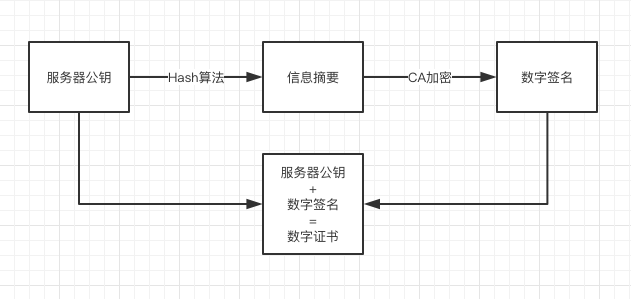
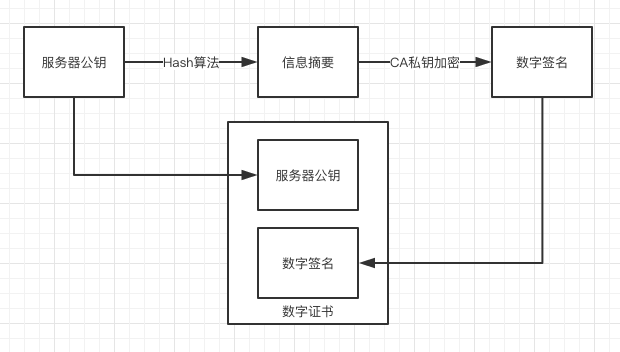
perf: ⚡ 优化 https 文章

diff --git a/docs/blog/osi-https.md b/docs/blog/osi-https.md
@@ -2,58 +2,122 @@
 
 HTTPS 是以安全为目标的 HTTP 通道，简单讲是 HTTP 的安全版。
 
-## 流程分析
+- HTTPS 协议定义
+- HTTPS 流程分析
+- TLS 握手优化
+
+## HTTPS 协议定义
+
+HTTPS 全称为超文本传输安全协议（HyperText Transfer Protocol Secure；常称为 HTTP over TLS、HTTP over SSL 或 HTTP Secure）是一种通过计算机网络进行安全通信的传输协议。HTTPS 经由 HTTP 进行通信，但利用 SSL/TLS 来加密数据包。HTTPS 开发的主要目的，是提供对网站服务器的身份认证，保护交换数据的隐私与完整性。这个协议由网景公司（Netscape）在 1994 年首次提出，随后扩展到互联网上。
+
+可以看出，HTTPS 只是在 HTTP 的基础上，增加了 SSL/TSL 安全层，主要为了实现以下目的：
+
+- 所有信息都是加密传播，第三方无法窃听。
+- 具有校验机制，一旦被篡改，通信双方会立刻发现。
+- 配备身份证书，防止身份被冒充。
+
+## HTTPS 流程分析
 
 下图是一次 HTTPS 请求的流程图，我们一起来分析一下。
 
 ![https流程图](osi-https.png)
 
-- 1、客户端请求 HTTPS 链接，并发送自己支持的**一套加密规则**和**一个随机数**（Client random）给服务器。
-- 2、服务器需要安装好证书（其实就是一对公钥和私钥）。
-- 3、服务端确认双方使用的加密方法，并返回一组加密组件和通过 hash 算法签名的**数字证书**，和一个服务器端生成的**随机数（Server random）**。
+- 1、客户端发起请求，同时将客户端支持的**TLS 协议版本号**、**加密规则**、**一个随机数（Client random）**，发送给服务器。
+- 2、服务器上有安装好的认证证书（将服务器的私钥，通过权威机构 CA 认证后，生成的证书公钥和私钥）。
+- 3、服务端确认双方使用的加密方法，然后使用 hash 算法签名证书，然后将数字证书、一个服务器端生成的**随机数（Server random）**，发送给客户端。
 - 4、客户端验证证书。
   - 使用 hash 检查证书是否被篡改。
-  - 验证失败，弹出提示，证书存在问题，拒绝请求。
-  - 验证成功，生成新**随机数（Premaster secret）**。
+  - 验证失败，拒绝请求。
+  - 验证成功，生成**新随机数（Premaster secret）**。
 - 5、使用证书公钥将随机值加密后传给服务端。
 - 6、服务端用私钥解密消息内容，获得**随机数（Premaster secret）**。
 - 7、服务端根据约定的加密方法，使用前面的三个随机数（Client random，Server random，Premaster secret）生成**对话密钥（session key）**，并使用**对话密钥（session key）**加密传输内容，发送给客户端。
-- 8、客户端使用同样的算法获取**对话密钥（session key）**，并使用**对话密钥（session key）**解密传输内容。
-- 9、之后，客户端和服务器端通过**对话密钥（session key）** 作为对称加密 key，相互传输数据。
+- 8、客户端使用同样的算法生成**对话密钥（session key）**，并使用**对话密钥（session key）**对获取到的内容进行解密。
+- 9、秘钥协商结束，客户端和服务器端通过**对话密钥（session key）** 作为对称加密 key，相互传输数据。
 
-## Hash 检测
+可以看到，HTTPS 在请求时，主要分为两个部分：
 
-在秘钥协商的过程中，结合流程图 步骤 2~3 ，如果证书在传递过程中被篡改了怎么办？这就需要检验证书的合法性，一般使用数字签名来实现。
+- 秘钥协商，使用非对称加密，生成秘钥。
+- 对称加密，使用秘钥对每次请求进行加密。
+
+:::tip 为什么需要 3 个随机数，而不是只用 Premaster secret 生成会话密钥？
+
+因为每个主机并不是都能产生完全的随机数的。有很多产生的只是弱随机数而已，比如范围小，可能被猜测。如果该随机数被破解，那么之前一系列握手都是没什么用的。因此用三个随机数一起生成密钥能使得伪随机数更接近随机。
+:::
+
+### 证书合法性验证
+
+服务器端发送公钥的时候，中间人截取了的公钥，并把自己的公钥发给了客户端，客户端发的消息就用中间人的公钥加了密，中间人不就可以解密看到消息了吗？
+
+是的，这个时候就需要发挥证书的用处了，想要部署 HTTPS 服务，必须在 CA 认证机构中进行认证获得认证证书。客户端可以根据证书判断出具体请求到的服务器是否是中间人。
+
+问题又来了，如果中间人并不直接替换证书，而是修改了其中的一部分内容，应该怎么应对呢？
+
+我们可以使用 hash 算法，对证书进行签名，在客户端采用同样的 hash 算法进行验证，一旦发现不一致，就取消该请求。具体操作如下：
+
+服务器端生成数字证书：
 
 ![https流程图](osi-https-hash1.png)
 
-- 将服务器公钥进行 Hash 加密。
-- 将加密后的结果再通过 CA（认证中心）私钥加密，生成数字签名。
-- 将服务器公钥和数字签名一并发给客户端。
+- 将服务器公钥进行 Hash 加密，生成信息摘要。
+- 将信息摘要通过 CA（认证中心）私钥加密，生成数字签名。
+- 将服务器公钥，数字签名组合成数字证书。
+- 将数字证书发给客户端。
+
+客户端验证数字证书：
 
 ![https流程图](osi-https-hash2.png)
 
-- 客户端使用同样的 Hash 算法加密公钥 -> Hash 加密后的服务器公钥。
-- 使用 CA 公钥解密数字签名 -> Hash 加密后的服务器公钥。
-- 通过比对 Hash 加密后的服务器公钥是否一致，保证代码证书有效。
+- 客户端首先从数字证书中获取到服务器公钥，数字签名。
+- 将服务器公钥进行 Hash 加密，生成信息摘要。
+- 将数字签名，通过 CA 公钥进行解密，生成信息摘要。
+- 比对两次生成的信息摘要是否一致，若一致，则证书验证成功。
 
-## HTTPS 如何保证安全
+在这期间如果有中间人对证书进行修改，最后生成的信息摘要就一定不一致，客户端就知道请求被攻击了。
 
-HTTPS 引入了加密以及身份验证机制。
+## TLS 握手优化
 
-- 在传输过程中的内容都是经过加密的。
-- 引入了证书的概念，保证客户端通信的服务器是真正的服务器，而不是中间人。
+- 精简证书大小
+- 会话复用
 
-在图中可以看到，步骤中间人只可能在 1，3，5，7 时去劫持请求。
+### False Start
 
-- 劫持请求 1 和 3：劫持请求到另一个服务器，或修改服务器返回的证书，都会在步骤 4 中验证证书失败，故攻击失效。
-- 劫持请求 5：证书私钥在服务器端，只有服务器端才能解密，中间人没有私钥，故无法破解内容。
-- 劫持请求 7：对称加密的密钥存在客户端和服务端，中间人没有密钥，故无法破解内容。
+False Start 有抢跑的意思，意味着不按规则行事。TLS False Start 是指客户端在发送 Change Cipher Spec Finished 同时发送应用数据（如 HTTP 请求），服务端在 TLS 握手完成时直接返回应用数据（如 HTTP 响应）。这样，应用数据的发送实际上并未等到握手全部完成，故谓之抢跑。
 
-## 小结
+![False Start](osi-https-tsl.png)
 
-HTTPS 优点
+可以看到，启用 False Start 之后，TLS 阶段只需要一次 RTT 就可以开始传输应用数据。False Start 相当于客户端提前发送加密后的应用数据，不需要修改 TLS 协议，目前大部分浏览器默认都会启用。
+
+### 精简证书大小
+
+如果需要进一步减小证书大小，可以选择 ECC（Elliptic Curve Cryptography，椭圆曲线密码学）证书。256 位的 ECC Key 等同于 3072 位的 RSA Key，在确保安全性的同时，体积大幅减小。下面是一个对比：
+
+| 对称加密 Key 长度 | RSA Key 长度 | ECC Key 长度 |
+| ----------------- | ------------ | ------------ |
+| 80                | 1024         | 160          |
+| 112               | 2048         | 224          |
+| 128               | 3072         | 256          |
+| 192               | 7680         | 384          |
+| 256               | 15360        | 521          |
+
+### 会话复用
+
+如果建立 TSL 连接之后，如果出于某种原因，对话中断，就需要重新建立连接。这时有两种方法可以快速恢复原来的 session：一种叫做 session ID，另一种叫做 session ticket。
+
+#### Session Identifier
+
+Session Identifier（会话标识符），是 TLS 握手中生成的 Session ID。服务端可以将 Session ID 协商后的信息存起来，浏览器也可以保存 Session ID，并在后续的 ClientHello 握手中带上它，如果服务端能找到与之匹配的信息，就可以完成一次快速握手。
+
+#### Session Ticket
+
+Session Identifier 机制有一些弊端，例如：
+
+- 负载均衡中，多机之间往往没有同步 Session 信息，如果客户端两次请求没有落在同一台机器上就无法找到匹配的信息。
+- 服务端存储 Session ID 对应的信息不好控制失效时间，太短起不到作用，太长又占用服务端大量资源。
+
+而 Session Ticket（会话记录单）可以解决这些问题，Session Ticket 是用只有服务端知道的安全密钥加密过的会话信息，最终保存在浏览器端。浏览器如果在 ClientHello 时带上了 Session Ticket，只要服务器能成功解密就可以完成快速握手。
 
 ## 相关链接
 
 - [一个故事讲完 HTTPS](https://mp.weixin.qq.com/s/StqqafHePlBkWAPQZg3NrA)
+- [TLS 握手优化详解](https://imququ.com/post/optimize-tls-handshake.html)

diff --git a/docs/blog/libary-react-core.md b/docs/blog/libary-react-core.md
@@ -12,15 +12,36 @@
 
 ## Fiber
 
-Fiber 是 facebook 折腾两年多做出来的东西，是对核心算法的一次重新实现。虽然对开发层面是无感的，但是对于 react 整个架构的优化是非常到位了，目前还没看出有其他框架能超越的地方，当前阶段出的很多新特性 Concurrent Rendering，Suspense 等都是在 fiber 基础上实现的。
+React 框架内部的运作可以分为 3 层：
+
+- Virtual DOM 层，描述页面长什么样。
+- Reconciler 层，负责调用组件生命周期方法，进行 Diff 运算等。
+- Renderer 层，根据不同的平台，渲染出相应的页面，比较常见的是 ReactDOM 和 ReactNative。
+
+从 React16.8 开始，对 Reconciler 层了做了很大的改动，React 团队也给它起了个新的名字，叫 Fiber Reconciler。这就引入另一个关键词：Fiber。
 
 Fiber 把更新过程碎片化，每执行完一段更新过程，就把控制权交还给 react 负责任务协调的模块，看看有没有其他紧急任务要做，如果没有就继续去更新，如果有紧急任务，那就去做紧急任务。
 
-Fiber 分为 2 个阶段：render 阶段 和 commit 阶段。
+为了达到这种效果，就需要有一个调度器 (Scheduler) 来进行任务分配。任务的优先级有六种：
+
+- synchronous，与之前的 Stack Reconciler 操作一样，同步执行
+- task，在 next tick 之前执行
+- animation，下一帧之前执行
+- high，在不久的将来立即执行
+- low，稍微延迟执行也没关系
+- offscreen，下一次 render 时或 scroll 时才执行
+
+优先级高的任务（如键盘输入）可以打断优先级低的任务（如 Diff）的执行，从而更快的生效。
+
+Fiber Reconciler 在执行过程中，会分为 2 个阶段：render 阶段 和 commit 阶段。
 
 ### Render 阶段
 
 Render 阶段包括 render 以前的生命周期。在这个阶段执行过程中会根据任务的优先级，选择执行或者暂停。故可能发生某个生命周期被执行多次的情况。
+
+:::tip
+Render 阶段可以被打断，让优先级更高的任务先执行，从框架层面大大降低了页面掉帧的概率。
+:::
 
 ### Commit 阶段
 
@@ -149,7 +170,7 @@ getDerivedStateFromError(error) {
 }
 ```
 
-- 异步数据获取
+- 异步数据获取。
 - 创建 promise，调用 then 方法，看是否已获取到数据。
   - 数据获取成功，返回数据，渲染成功。
   - 数据获取失败，抛出错误。
